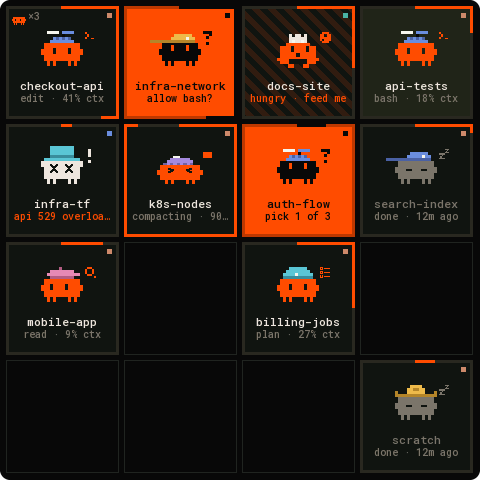
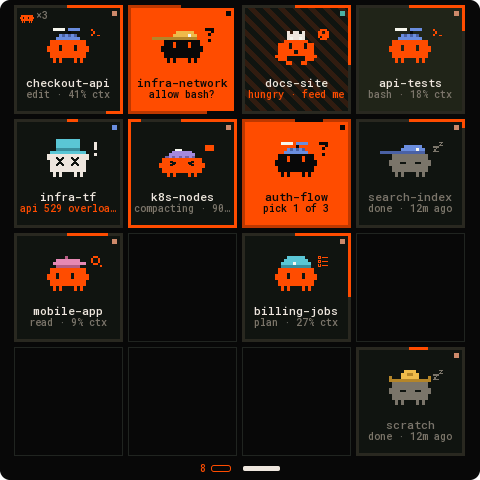
Docs pictures for 0.2.0: Needs you, Settings, Bluetooth
Boards: lcd4, amoled18 and t4s3 home now show the page bars with the
Needs you mark; new Needs you pictures for the four boards that have
the screen, and the Bluetooth passkey screen on the 1.8 inch and 2.8
inch boards. render_docs.sh adds the Needs you and Bluetooth screens to
each board's own docs folder.

Desk panel and menu bar: retaken from the Flutter golden tests (v3),
with a Needs you page for each.

Browser: retaken from agentctl serve --demo by docs/tools/web-shots.mjs
(deck, Needs you, a prompt, and Settings: Boards, a new board on USB,
Updates, Network, Bluetooth). The web and panel pictures nothing
referenced any more are gone.

Changed region(s): [[0.0, 0.0, 1.0, 1.0], [0.4062, 0.9688, 0.5938, 1.0]]

diff --git a/firmware/panel-core/tools/render_overview.py b/firmware/panel-core/tools/render_overview.py
@@ -42,21 +42,27 @@ SHOTS = {
     "round-28-detail": ("spring28", "detail"),
     "round-28-prompt": ("spring28", "prompt-question"),
     "round-28-wifi": ("spring28", "home-wifi"),
-    "lcd4-home": ("lcd4", "home"),
+    "round-28-bluetooth": ("spring28", "ble-passkey"),
+    "lcd4-home": ("lcd4", "needs-you-home"),
     "lcd4-card": ("lcd4", "card"),
     "lcd4-permission": ("lcd4", "permission"),
     "lcd4-wifi": ("lcd4", "wifi-joining"),
-    "amoled18-home": ("amoled18", "home"),
+    "lcd4-needs-you": ("lcd4", "needs-you"),
+    "amoled18-home": ("amoled18", "needs-you-home"),
     "amoled18-card": ("amoled18", "card"),
     "amoled18-permission": ("amoled18", "permission"),
     "amoled18-wifi": ("amoled18", "wifi-joining"),
-    "t4s3-home": ("t4s3", "home"),
+    "amoled18-needs-you": ("amoled18", "needs-you"),
+    "amoled18-bluetooth": ("amoled18", "ble-passkey"),
+    "t4s3-home": ("t4s3", "needs-you-home"),
     "t4s3-card": ("t4s3", "card"),
     "t4s3-question": ("t4s3", "question"),
     "t4s3-wifi": ("t4s3", "wifi-joining"),
+    "t4s3-needs-you": ("t4s3", "needs-you"),
     "lcd147-waiting": ("147", "auto"),
     "lcd147-running": ("147", "hero-00"),
     "lcd147-approval": ("147", "notice-unapproved"),
+    "lcd147-needs-you": ("147", "needs-you"),
 }
 
 
